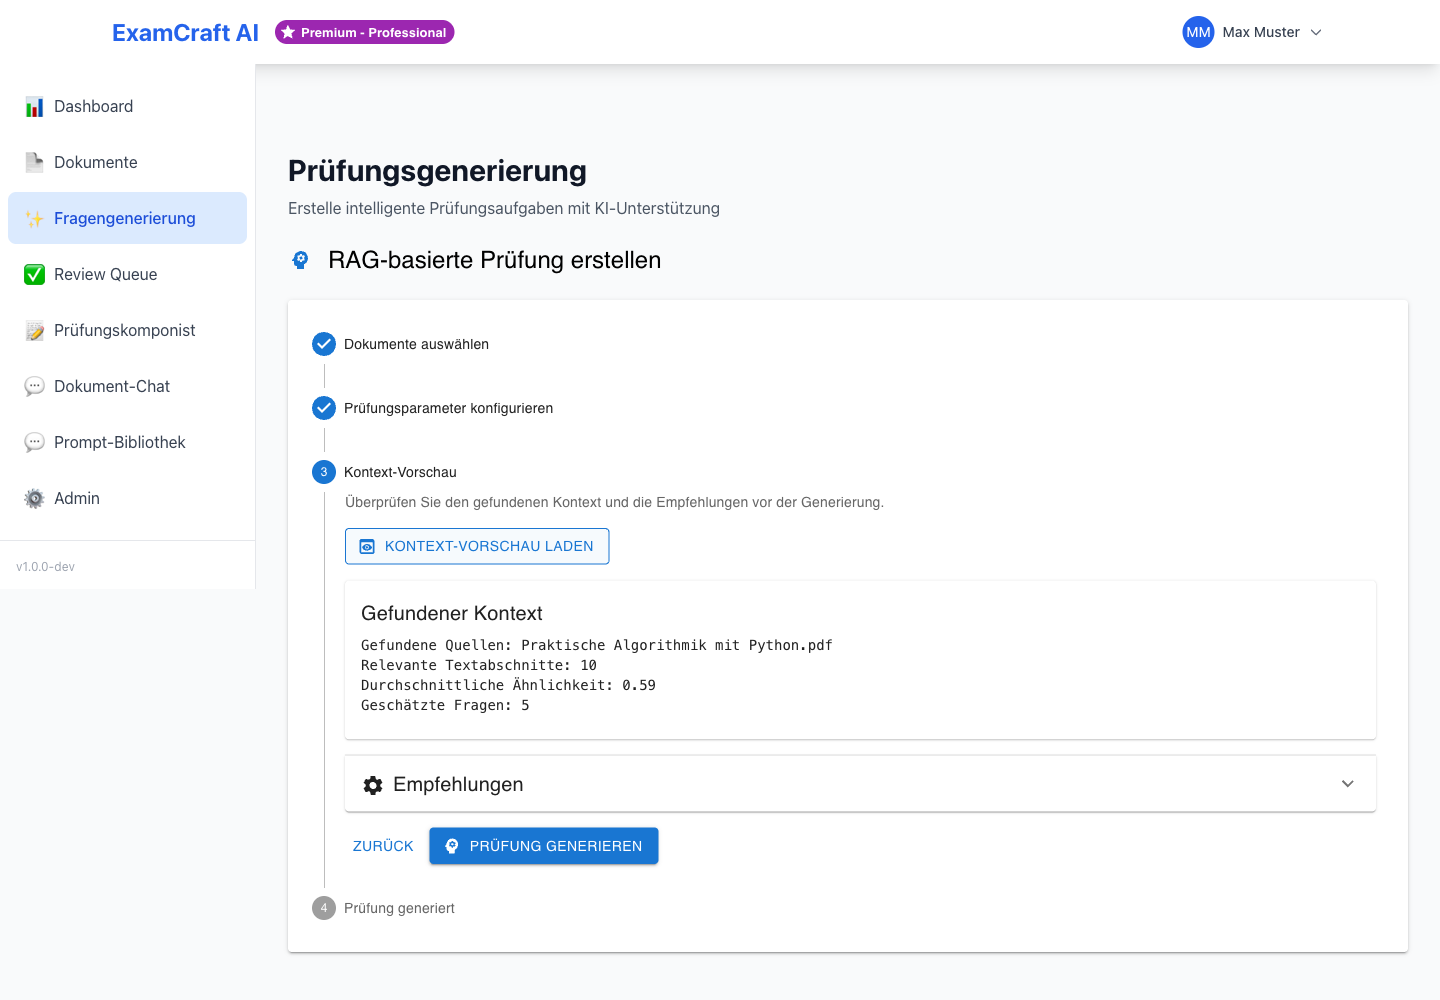
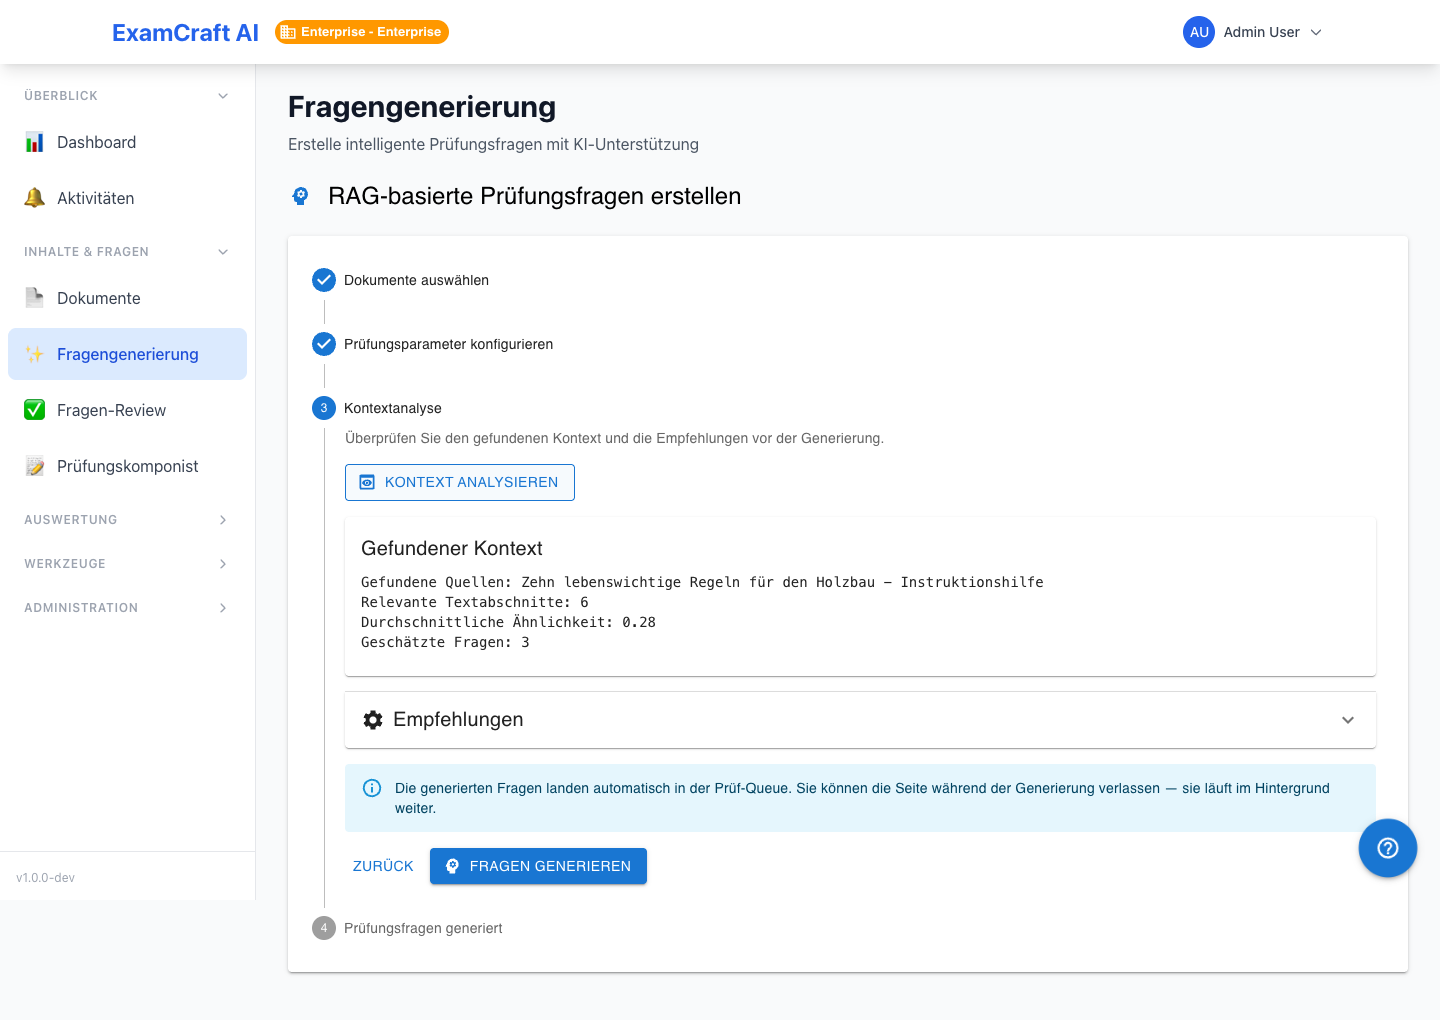
✨ Fragengenerierung: «Kontext-Vorschau laden» → «Kontext analysieren» (TF-658) (#199)
Schliesst [TF-658](https://linear.app/talent-factory/issue/TF-658).

Schritt 3 des RAG-Wizards hiess „Kontext-Vorschau", der zugehörige
Button
„Kontext-Vorschau laden". Beides klingt nach einem optionalen Preview,
tatsächlich ist es Voraussetzung: der Generieren-Button trägt
`disabled={!contextPreview || loading}`. Das Label beschrieb eine
Option, wo
eine Bedingung steht.

## Was drin ist

**Locales** — nur Werte, die Key-Namen (`loadContextPreview`,
`loadingPreview`)
bleiben unverändert; ein Rename gehört in ein eigenes Aufräum-Ticket.

| Key | de | en | fr | it |
| -- | -- | -- | -- | -- |
| `step3Label` | Kontextanalyse | Context analysis | Analyse du contexte
| Analisi del contesto |
| `loadContextPreview` | Kontext analysieren | Analyze context |
Analyser le contexte | Analizza contesto |
| `loadingPreview` | Analysiere Kontext… | Analyzing context… | Analyse
en cours… | Analisi in corso… |

Substantiv für den Schritt, Verb für die Aktion: `StepLabel` und Button
stehen
direkt untereinander im selben `StepContent` — identischer Text wäre in
der UI
ein Doppel und machte `getByText` mehrdeutig.

`errorContextPreview` ist mitgezogen, sonst meldet der Fehlerfall weiter
eine
„Vorschau", die es nicht mehr gibt. `step3Description` bleibt inhaltlich
gültig.

**Screenshot-Skript** — der Playwright-Selektor
`button:has-text("Kontext-Vorschau")`
hätte nach dem Rename nie mehr gegriffen. Beim Nachziehen stellte sich
heraus,
[…]

diff --git a/frontend/scripts/take-screenshots.ts b/frontend/scripts/take-screenshots.ts
@@ -384,16 +384,25 @@ const SCREENSHOTS: ScreenshotDef[] = [
         return;
       }
 
-      // Schritt 3: "Kontext-Vorschau laden" klicken + warten
-      const previewBtn = page.locator('button:has-text("Kontext-Vorschau")').first();
-      if (await previewBtn.isVisible({ timeout: SELECTOR_TIMEOUT_MS }).catch(() => false)) {
-        await previewBtn.click();
-        await page.waitForLoadState('networkidle');
-        await page.waitForTimeout(WIZARD_CONTEXT_WAIT_MS);
-      } else {
-        console.warn('  ⚠ SKIP questions-step3 — "Kontext-Vorschau" Button nicht sichtbar');
+      // Schritt 3: "Kontext analysieren" klicken + warten.
+      //
+      // TF-658: `isVisible()` wartet NICHT — es liefert den Zustand im Moment
+      // des Aufrufs, die `timeout`-Option ändert daran nichts. Seit TF-608
+      // startet Schritt 3 die Analyse beim Betreten selbst; der Button trägt
+      // dann für rund eine Sekunde das Lade-Label und die Prüfung schlug
+      // sofort fehl. Der Screenshot wurde seither still übersprungen — die
+      // Warnung unten ging im Log unter, weil der Lauf trotzdem grün endete.
+      // `waitFor` wartet echt, bis der Button sein Ruhe-Label zurückhat.
+      const previewBtn = page.locator('button:has-text("Kontext analysieren")').first();
+      try {
+        await previewBtn.waitFor({ state: 'visible', timeout: SELECTOR_TIMEOUT_MS });
+      } catch {
+        console.warn('  ⚠ SKIP questions-step3 — "Kontext analysieren" Button nicht sichtbar');
         return;
       }
+      await previewBtn.click();
+      await page.waitForLoadState('networkidle');
+      await page.waitForTimeout(WIZARD_CONTEXT_WAIT_MS);
       if (shouldCapture('questions-step3-context-preview.png')) {
         await page.screenshot({
           path: path.join(wizardDir, 'questions-step3-context-preview.png'),

diff --git a/frontend/src/utils/ragWizardSnapshot.ts b/frontend/src/utils/ragWizardSnapshot.ts
@@ -25,7 +25,7 @@ export const RAG_WIZARD_SNAPSHOT_VERSION = 1;
  * und die Fragen stehen ohnehin in der Prüf-Queue).
  *
  * (Nicht mit dem 1-basierten "Schritt 3" in `RAGExamCreator.tsx` verwechseln
- * — das bezeichnet dort denselben `activeStep === 2`, die Kontext-Vorschau.)
+ * — das bezeichnet dort denselben `activeStep === 2`, die Kontextanalyse.)
  */
 export const MAX_RESTORABLE_WIZARD_STEP = 2;
 

diff --git a/docs-site/docs/user-guide/rag-exam.md b/docs-site/docs/user-guide/rag-exam.md
@@ -44,11 +44,24 @@ In der Dokumentenbibliothek:
 - **Kompetenzrahmen** (optional): Wählen Sie einen [Kompetenzrahmen](kompetenzrahmen.md), damit jede generierte
   Frage automatisch einer Handlungskompetenz und deren LN-Stufe (1–4) zugeordnet wird
 
-### 3. Generierung starten
+### 3. Kontextanalyse und Generierung
 
-![Schritt 3 — Kontext-Vorschau](../screenshots/questions/questions-step3-context-preview.png)
+![Schritt 3 — Kontextanalyse](../screenshots/questions/questions-step3-context-preview.png)
 
-Klicken Sie **RAG-Prüfung generieren**. Wartezeit: 20–60 Sekunden.
+Beim Betreten dieses Schritts durchsucht ExamCraft die gewählten Dokumente
+automatisch nach passenden Textabschnitten. Angezeigt werden die gefundenen
+Quellen, die Anzahl der Textabschnitte, die durchschnittliche Ähnlichkeit und
+wie viele Fragen sich daraus schätzungsweise erzeugen lassen.
+
+**Kontext analysieren** wiederholt die Analyse — nützlich, wenn Sie über
+**Zurück** Thema oder Dokumentenauswahl geändert haben.
+
+!!! note "Die Analyse ist Voraussetzung, nicht optional"
+    **Fragen generieren** bleibt inaktiv, solange kein Kontext gefunden wurde.
+
+Klicken Sie anschliessend **Fragen generieren**. Wartezeit: 20–60 Sekunden.
+Sie können die Seite währenddessen verlassen — die Generierung läuft im
+Hintergrund weiter.
 
 ### 4. Ergebnis prüfen
 

diff --git a/docs-site/docs/user-guide/rag-exam.fr.md b/docs-site/docs/user-guide/rag-exam.fr.md
@@ -38,9 +38,22 @@ Dans la bibliothèque de documents:
 - **Niveau de difficulté**: Facile / Moyen / Difficile
 - **Modèle de prompt**: Choisissez un modèle de prompt avec aperçu en direct
 
-### 3. Démarrer la génération
+### 3. Analyse du contexte et génération
 
-Cliquez sur **Générer l'examen RAG**. Temps d'attente: 20–60 secondes.
+À l'ouverture de cette étape, ExamCraft parcourt automatiquement les documents
+sélectionnés à la recherche de passages pertinents. S'affichent ensuite les
+sources trouvées, le nombre de segments de texte, la similarité moyenne et le
+nombre de questions envisageables.
+
+**Analyser le contexte** relance l'analyse — utile après un retour en arrière
+via **Retour** pour modifier le sujet ou la sélection de documents.
+
+!!! note "L'analyse est un prérequis, pas une option"
+    **Générer l'examen** reste inactif tant qu'aucun contexte n'a été trouvé.
+
+Cliquez ensuite sur **Générer l'examen**. Temps d'attente: 20–60 secondes.
+Vous pouvez quitter la page entre-temps — la génération se poursuit en
+arrière-plan.
 
 ### 4. Vérifier les résultats
 

diff --git a/docs-site/docs/user-guide/rag-exam.it.md b/docs-site/docs/user-guide/rag-exam.it.md
@@ -38,9 +38,21 @@ Nella libreria documenti:
 - **Livello difficoltà**: Facile / Medio / Difficile
 - **Modello Prompt**: Selezionate un template Prompt con anteprima dal vivo
 
-### 3. Avvio generazione
+### 3. Analisi del contesto e generazione
 
-Fate clic su **Genera esame RAG**. Tempo di attesa: 20–60 secondi.
+All'apertura di questo passo ExamCraft esamina automaticamente i documenti
+selezionati alla ricerca di passaggi pertinenti. Vengono poi mostrate le fonti
+trovate, il numero di segmenti di testo, la similarità media e quante domande
+se ne possono ricavare indicativamente.
+
+**Analizza contesto** ripete l'analisi — utile dopo essere tornati indietro con
+**Indietro** per cambiare argomento o selezione dei documenti.
+
+!!! note "L'analisi è un prerequisito, non un'opzione"
+    **Genera esame** resta disattivato finché non è stato trovato un contesto.
+
+Fate poi clic su **Genera esame**. Tempo di attesa: 20–60 secondi. Nel
+frattempo potete lasciare la pagina — la generazione prosegue in secondo piano.
 
 ### 4. Controllo risultato
 

diff --git a/docs-site/docs/user-guide/rag-exam.en.md b/docs-site/docs/user-guide/rag-exam.en.md
@@ -38,9 +38,20 @@ In the document library:
 - **Difficulty Level**: Easy / Medium / Hard
 - **Prompt Template**: Select a prompt template with live preview
 
-### 3. Start Generation
+### 3. Context Analysis and Generation
 
-Click **Generate RAG Exam**. Wait time: 20–60 seconds.
+Entering this step automatically searches the selected documents for matching
+passages. You then see the sources found, the number of text chunks, the
+average similarity, and roughly how many questions they support.
+
+**Analyze context** repeats the analysis — useful after going **Back** to
+change the topic or the document selection.
+
+!!! note "The analysis is a prerequisite, not an option"
+    **Generate Questions** stays disabled until context has been found.
+
+Then click **Generate Questions**. Wait time: 20–60 seconds. You can leave the
+page meanwhile — generation continues in the background.
 
 ### 4. Review Results
 
